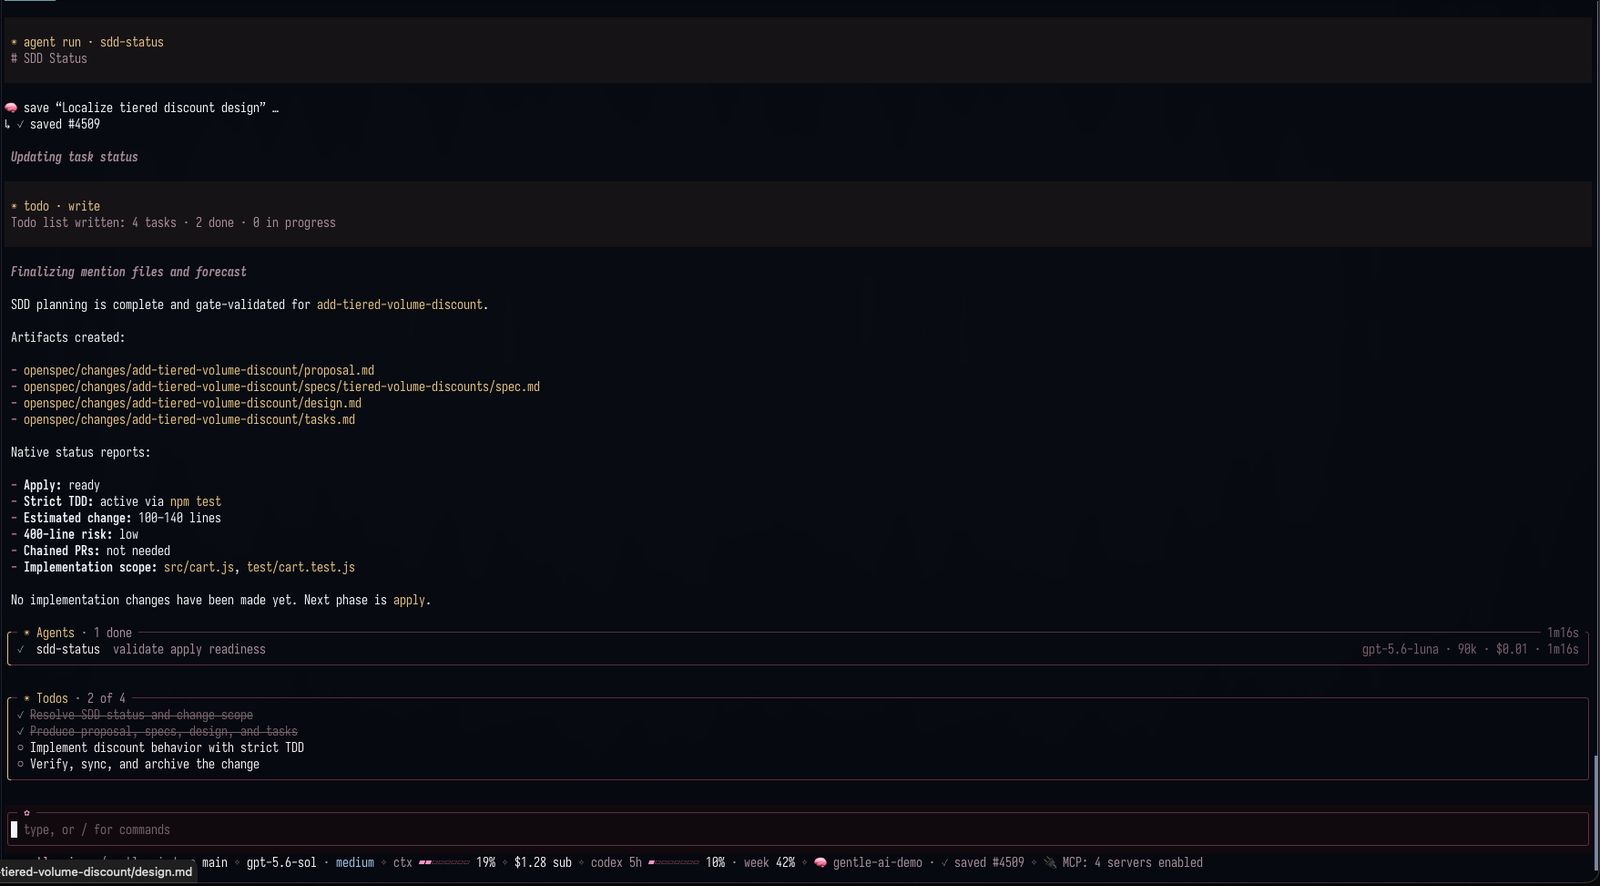
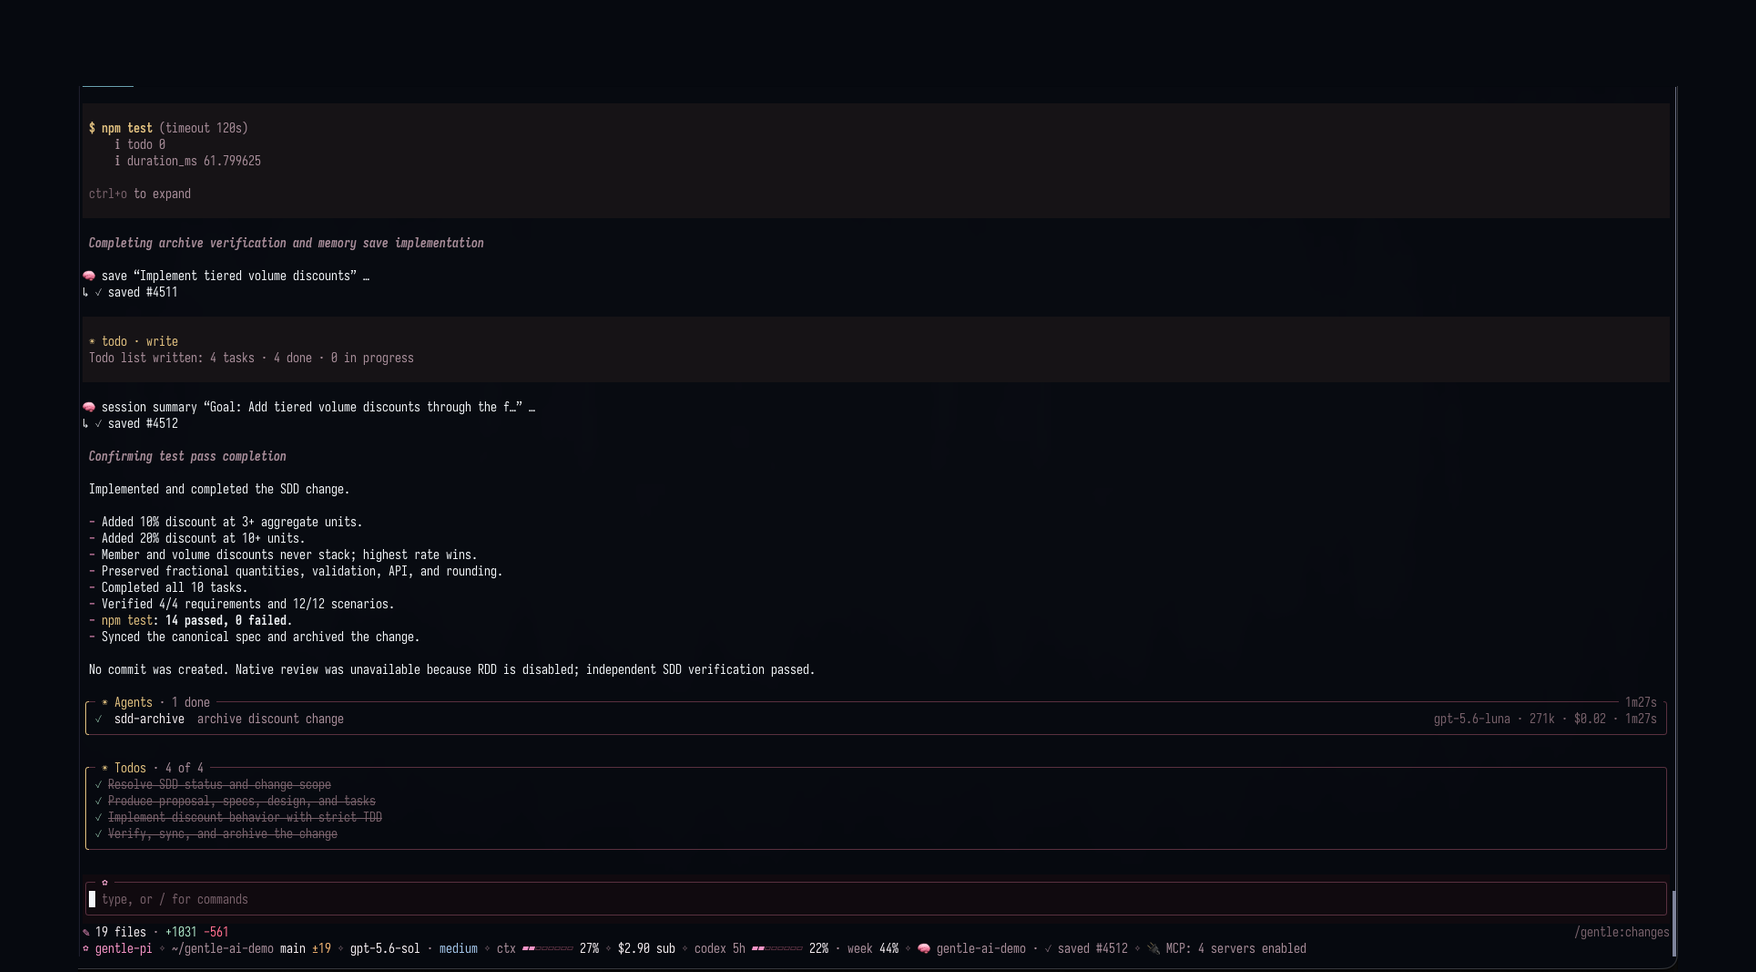
docs: show the finished SDD cycle instead of only its planning
The cell bolds Verify and promises an independent audit of the RED/GREEN
trail, but the previous image stopped at "planning complete". This one closes
the loop: ten tasks done, 4/4 requirements and 12/12 scenarios verified, 14
tests passing, canonical spec synced, change archived — and all four todos
struck through.

It also reads in plain language. The bullets say what was built, not which
machinery produced it.

Changed region(s): [[0.0, 0.2133, 1.0, 0.8837], [0.0, 0.9142, 1.0, 1.0], [0.0, 0.0305, 0.1562, 0.2133]]

diff --git a/README.md b/README.md
@@ -113,7 +113,7 @@ Research → Spec → Design → Tasks → strict TDD → **Verify**. An indepen
 
 **[Docs →](docs/intended-usage.md)**
 
-<img width="100%" src="docs/assets/features/sdd.png" alt="SDD planning complete: the proposal, spec, design and tasks artifacts it created, with strict TDD active" />
+<img width="100%" src="docs/assets/features/sdd.png" alt="A finished SDD cycle: ten tasks done, 4 of 4 requirements and 12 of 12 scenarios verified, 14 tests passing, spec synced and the change archived" />
 
 </td>
 </tr>
